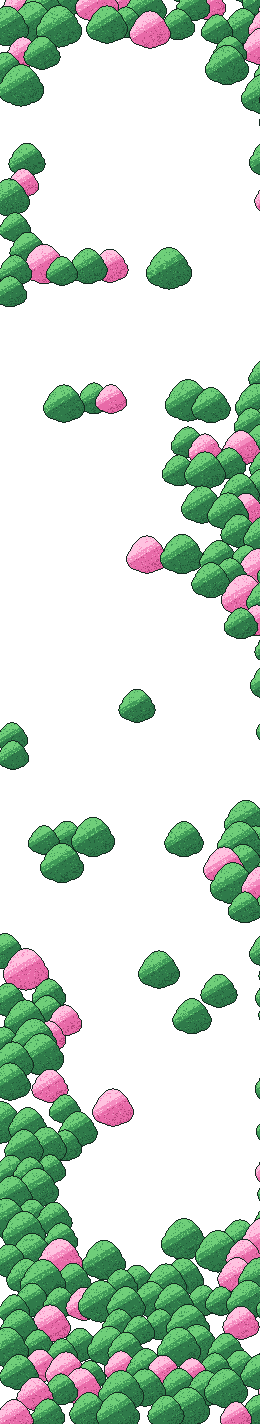
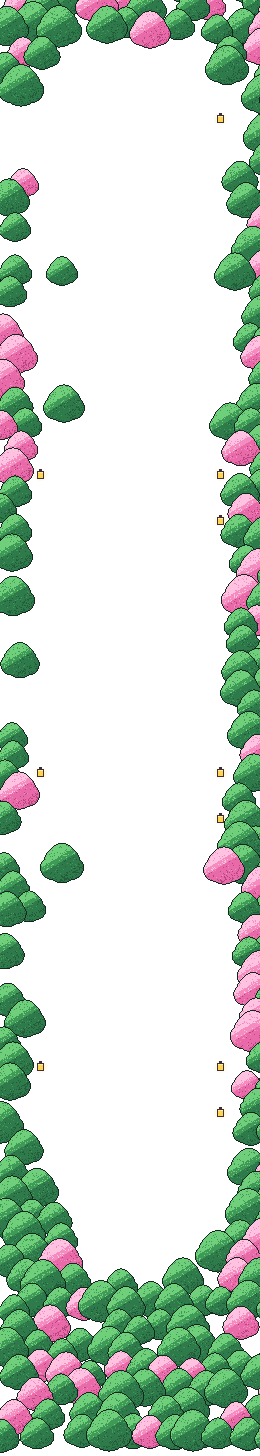
Handy: feste Views per Wisch, Weg als durchgehende Schlange; Desktop: kurzer Halt an Stationen

diff --git a/src/scripts/map.ts b/src/scripts/map.ts
@@ -28,7 +28,7 @@ interface MapConfig {
   mobileQuery: string;
   layouts: { desktop: LayoutConfig; mobile: LayoutConfig };
   hero: { speed: number; sprintFrom: number; sprintMax: number; stride: number; anchorX: number; anchorY: number };
-  scroll: { hold: number; snap: boolean; magnet: boolean; focus: number; focusMobile: number };
+  scroll: { hold: number; snap: boolean; magnet: boolean; views: boolean; pause: number; focus: number; focusMobile: number };
   /** halfW/h: halbe Breite und Höhe des Gebäudes in Map-Pixeln (Inhaltsfenster steht daneben) */
   stations: { id: string; panel: 'left' | 'right'; face: Facing; halfW: number; h: number }[];
   /** Abstand Unterkante Gebäude → Wegmitte, halbe Wegbreite */
@@ -134,6 +134,86 @@ export function initMap() {
   /** Station, an der Figur UND Ziel gerade stehen (sonst -1) */
   const stationAt = (s: number) => stationS.findIndex((st) => Math.abs(st - s) < 0.5);
 
+  /* ------------------------------------- Handy: feste Views (Scroll-Snap) */
+
+  const snapBox = document.createElement('div');
+  snapBox.className = 'snap-points';
+  snapBox.setAttribute('aria-hidden', 'true');
+  document.body.append(snapBox);
+  const snapViews = () => cfg.scroll.views && mobile.matches;
+
+  /** Je Station ein Einrastpunkt an ihrer Scroll-Position, dazu einer ganz unten (Footer) */
+  function updateSnaps() {
+    const on = snapViews();
+    root.classList.toggle('snap-views', on);
+    if (!on) return snapBox.replaceChildren();
+    const ys = [...stationY.map((_, i) => scrollYFor(i)), maxScroll()];
+    snapBox.replaceChildren(
+      ...ys.map((y) => {
+        const el = document.createElement('div');
+        el.className = 'snap-point';
+        el.style.top = `${Math.round(y)}px`;
+        return el;
+      }),
+    );
+  }
+
+  /* Wisch-Blättern: ein Wisch = genau eine Station weiter/zurück, egal wie viel Schwung.
+     Natives Scrollen ist dafür abgeschaltet – außer in einer Infoleiste, deren Text länger ist. */
+  const pages = () => [...stationY.map((_, i) => scrollYFor(i)), maxScroll()];
+  let pageTarget = -1; // Ziel einer laufenden Blätter-Animation (für schnelle Folgewische)
+  let touchY0 = 0;
+  let touchDir = 0;
+  let nativeTouch = false;
+
+  function currentPage() {
+    const ys = pages();
+    if (pageTarget >= 0) return pageTarget;
+    let best = 0;
+    ys.forEach((y, i) => Math.abs(y - scrollY) < Math.abs(ys[best] - scrollY) && (best = i));
+    return best;
+  }
+
+  addEventListener(
+    'touchstart',
+    (e) => {
+      if (!snapViews() || e.touches.length > 1) return;
+      touchY0 = e.touches[0].clientY;
+      touchDir = 0;
+      nativeTouch = false;
+    },
+    { passive: true },
+  );
+  addEventListener(
+    'touchmove',
+    (e) => {
+      if (!snapViews() || e.touches.length > 1) return;
+      const dy = touchY0 - e.touches[0].clientY;
+      if (!touchDir && Math.abs(dy) > 4) {
+        touchDir = Math.sign(dy);
+        // Längerer Text in der Infoleiste: dort normal scrollen, solange es in diese Richtung geht
+        const sheet = (e.target as Element).closest<HTMLElement>('.station');
+        const room = sheet ? (touchDir > 0 ? sheet.scrollHeight - sheet.clientHeight - sheet.scrollTop : sheet.scrollTop) : 0;
+        nativeTouch = room > 1;
+      }
+      if (!nativeTouch && e.cancelable) e.preventDefault();
+    },
+    { passive: false },
+  );
+  addEventListener(
+    'touchend',
+    (e) => {
+      if (!snapViews() || nativeTouch || !touchDir) return;
+      const dy = touchY0 - e.changedTouches[0].clientY;
+      if (Math.abs(dy) < 24) return; // nur ein Antippen
+      const ys = pages();
+      const next = Math.min(Math.max(currentPage() + Math.sign(dy), 0), ys.length - 1);
+      pageTarget = next;
+      scrollTo({ top: ys[next], behavior: reduced.matches ? 'instant' : 'smooth' });
+    },
+    { passive: true },
+  );
+
   /* ------------------------------------------------------- Layout */
 
   function layout() {
@@ -148,6 +228,7 @@ export function initMap() {
     scale = Math.max(wish, Math.ceil(vw / width));
     root.style.setProperty('--s', String(scale));
     snapCamera = true;
+    updateSnaps();
   }
 
   /* ---------------------------------------------- Hauptschleife */
@@ -332,12 +413,13 @@ export function initMap() {
   let settleTimer = 0;
 
   function settle() {
+    pageTarget = -1;
     if (touching) return;
     const f = progress();
     const near = Math.round(f);
     if (Math.abs(f - near) <= cfg.scroll.hold / 2) {
       // Magnet (Handy): in der Halte-Zone sanft die paar Pixel nachrücken, bis das Haus ganz zu sehen ist
-      if (cfg.scroll.magnet && mobile.matches && Math.abs(scrollY - scrollYFor(near)) > 6) goTo(near);
+      if (cfg.scroll.magnet && mobile.matches && !snapViews() && Math.abs(scrollY - scrollYFor(near)) > 6) goTo(near);
       return;
     }
     if (cfg.scroll.snap) goTo(clamp(lastDir > 0 ? Math.ceil(f) : lastDir < 0 ? Math.floor(f) : near, 0, segs));
@@ -375,6 +457,7 @@ export function initMap() {
     layout();
     // Handy-Adressleiste ändert nur die Höhe: einfach weiterlaufen
     if (scale === before.scale && vw === before.vw && L === before.L) {
+      // Höhe geändert (Adressleiste): Einrastpunkte neu, sonst einfach weiterlaufen
       targetS = targetFromScroll();
       wake();
       return;
@@ -385,6 +468,33 @@ export function initMap() {
     resizeTimer = window.setTimeout(() => placeAt(keep), 150);
   });
   reduced.addEventListener('change', wake);
+
+  /* Desktop: kurzer Halt an jeder Station. Überquert ein Mausrad-/Trackpad-Schritt eine Station,
+     bleibt die Seite dort für SCROLL.pause ms stehen; danach geht es normal weiter. */
+  let holdUntil = 0;
+  let heldAt = -1;
+  addEventListener(
+    'wheel',
+    (e) => {
+      if (mobile.matches || !cfg.scroll.pause || e.ctrlKey) return;
+      const now = performance.now();
+      if (now < holdUntil) return e.preventDefault();
+      if (heldAt >= 0 && Math.abs(scrollY - scrollYFor(heldAt)) > 40) heldAt = -1;
+      const dy = e.deltaMode === 1 ? e.deltaY * 16 : e.deltaMode === 2 ? e.deltaY * innerHeight : e.deltaY;
+      const from = scrollY;
+      const to = from + dy;
+      for (let i = 0; i <= segs; i++) {
+        const y = scrollYFor(i);
+        if (i === heldAt || !((from < y && to >= y) || (from > y && to <= y))) continue;
+        e.preventDefault();
+        scrollTo({ top: y, behavior: reduced.matches ? 'instant' : 'smooth' });
+        heldAt = i;
+        holdUntil = now + cfg.scroll.pause;
+        return;
+      }
+    },
+    { passive: false },
+  );
 
   /* ------------------------------------------------------- Start */
 

diff --git a/src/data/layouts.ts b/src/data/layouts.ts
@@ -66,30 +66,40 @@ const desktop: Layout = {
   layers: MAP.layers,
 };
 
-/** Handy-Map: Breite, Mitte der Gebäudespalte, Abstand der Seitenwege vom Rand, Platz unter der Tür */
-const M = { width: 260, center: 130, side: 12, firstY: 150, air: 64, bottom: 200 };
-/** Zu welcher Seite der Weg nach jeder Station ausschwenkt (1 = rechts, 0 = links) – bewusst unregelmäßig */
-const SIDES = [1, 0, 0, 1, 0, 1, 1, 0];
+/**
+ * Handy-Map: Gebäude mittig untereinander. Zwischen zwei Gebäuden läuft der Weg im Zickzack
+ * hin und her (zur einen Seite, quer, zur anderen Seite, zurück zur Mitte) – immer im Bild.
+ * left/right: x der Seitenwege (bleiben auch auf schmalen Handys sichtbar), zig: Tiefe des Zickzacks.
+ */
+const M = { width: 260, center: 130, left: 58, right: 202, firstY: 150, zig: 46, signRoom: 18, bottom: 200 };
 
 function mobileLayout(): Layout {
   const path: Point[] = [];
   const waypoints: number[] = [];
-  const parkW = 160;
-  let park = parkAt(M.center - parkW / 2, 0, parkW);
+  const parkW = 146;
+  let park = parkAt(40, 0, parkW);
   let y = M.firstY;
+  // Durchgehende Schlange: Der Weg verlässt jede Station zur Seite gegenüber der Ankunft
+  let arrivedFrom = M.left; // der Weg kommt am Start vom linken Kartenrand
   STOPS.forEach((stop, i) => {
     if (i > 0) {
       const prevY = y;
-      // Platz für den Seitenweg, das Schild und etwas Luft über dem nächsten Gebäude
-      let gap = BUILDINGS[stop.building].h + BUILDING_GAP + M.air;
-      // Hundeplatz zwischen Start und erster Station
+      const h = BUILDINGS[stop.building].h;
+      const first = arrivedFrom === M.left ? M.right : M.left;
+      const other = first === M.right ? M.left : M.right;
       if (i === 1) {
-        park = parkAt(M.center - parkW / 2, prevY + 26, parkW);
-        gap += PARK_SHAPE.h + 30;
+        // Zwischen Start und erster Station liegt links der Hundeplatz: nur ein Bogen (nach rechts)
+        park = parkAt(40, prevY + 24, parkW);
+        y = park.y + park.h + M.signRoom + 12 + BUILDING_GAP + h;
+        path.push({ x: first, y: prevY }, { x: first, y });
+        arrivedFrom = first;
+      } else {
+        // Zickzack: Seite → quer → andere Seite → zurück zur Mitte (Gebäude steht darüber)
+        const zigY = prevY + M.zig;
+        y = zigY + 10 + M.signRoom + BUILDING_GAP + h;
+        path.push({ x: first, y: prevY }, { x: first, y: zigY }, { x: other, y: zigY }, { x: other, y });
+        arrivedFrom = other;
       }
-      y = prevY + gap;
-      const x = SIDES[(i - 1) % SIDES.length] ? M.width - M.side : M.side;
-      path.push({ x, y: prevY }, { x, y });
     }
     waypoints.push(path.length);
     path.push({ x: M.center, y });

diff --git a/src/data/map.ts b/src/data/map.ts
@@ -86,6 +86,16 @@ export const SCROLL = {
    * sanft die letzten Pixel nach, damit Schild, Gebäude und Figur ganz zu sehen sind.
    */
   magnet: true,
+  /**
+   * Handy: feste Views – jede Station ist ein Einrastpunkt, ein Wisch bringt genau zur nächsten
+   * (CSS Scroll-Snap). Die Punkte werden pro Handy so berechnet, dass Gebäude und Infoleiste passen.
+   */
+  views: true,
+  /**
+   * Desktop: Beim Scrollen mit Mausrad/Trackpad hält die Seite an jeder Station so viele
+   * Millisekunden an – wer weiterscrollt, scrollt danach normal weiter. 0 = aus.
+   */
+  pause: 450,
   /** Höhe der Station im Bild (Desktop): 0 = oben, 1 = unten */
   focus: 0.45,
   /**

diff --git a/src/styles/map.css b/src/styles/map.css
@@ -357,6 +357,28 @@
   content: '▼';
 }
 
+/* Handy: feste Views – JS setzt je Station einen Einrastpunkt (top = Scroll-Position) */
+html.snap-views {
+  scroll-snap-type: y mandatory;
+}
+.snap-points {
+  position: absolute;
+  top: 0;
+  left: 0;
+  width: 1px;
+  height: 0;
+  pointer-events: none;
+}
+.snap-point {
+  position: absolute;
+  left: 0;
+  width: 1px;
+  height: 1px;
+  scroll-snap-align: start;
+  /* Ein Wisch = eine Station, auch bei viel Schwung */
+  scroll-snap-stop: always;
+}
+
 /* Inhaltsfenster: liegen über der Map und scrollen mit; JS setzt die Position neben der Station */
 .js .stations {
   position: absolute;
